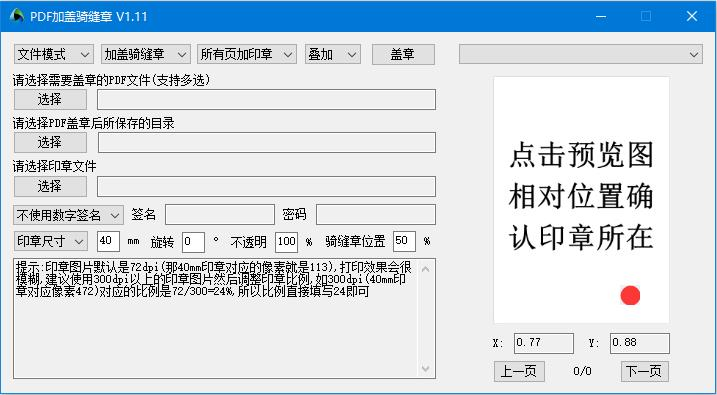
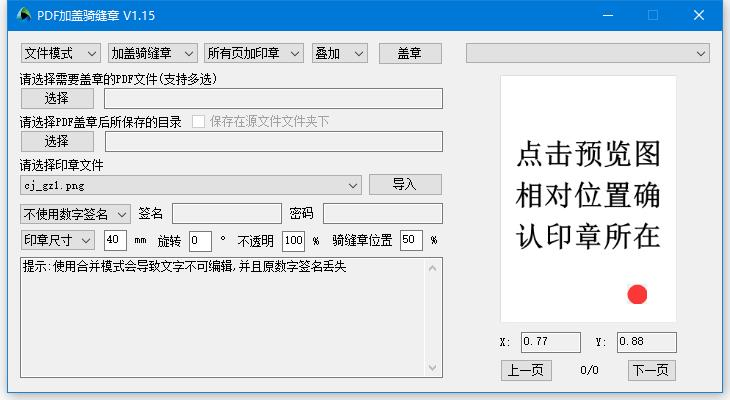
修复仅数字签名时的报错

diff --git a/PDFQFZ/Form1.Designer.cs b/PDFQFZ/Form1.Designer.cs
@@ -172,8 +172,7 @@
             this.log.ScrollBars = System.Windows.Forms.ScrollBars.Both;
             this.log.Size = new System.Drawing.Size(423, 121);
             this.log.TabIndex = 10;
-            this.log.Text = "提示:印章图片默认是72dpi(那40mm印章对应的像素就是113),打印效果会很模糊,建议使用300dpi以上的印章图片然后调整印章比例,如300dpi(40m" +
-    "m印章对应像素472)对应的比例是72/300=24%,所以比例直接填写24即可";
+            this.log.Text = "提示:使用合并模式会导致文字不可编辑,并且原数字签名丢失";
             // 
             // comboYz
             // 
@@ -559,7 +558,7 @@
             this.Icon = ((System.Drawing.Icon)(resources.GetObject("$this.Icon")));
             this.MaximizeBox = false;
             this.Name = "Form1";
-            this.Text = "PDF加盖骑缝章 V1.14";
+            this.Text = "PDF加盖骑缝章 V1.15";
             this.Load += new System.EventHandler(this.Form1_Load);
             ((System.ComponentModel.ISupportInitialize)(this.pictureBox2)).EndInit();
             ((System.ComponentModel.ISupportInitialize)(this.pictureBox1)).EndInit();

diff --git a/PDFQFZ/Form1.cs b/PDFQFZ/Form1.cs
@@ -484,9 +484,9 @@ namespace PDFQFZ
                         //img.Transparency = new int[] { 0x00, 0x00, 0x00, 0x00, 0x00, 0x00 };//这里透明背景的图片会变黑色,所以设置黑色为透明
                         //img.RotationDegrees = rotation;
                         img.ScalePercent(sfbl);//设置图片比例
+                        imgW = img.Width * sfbl / 100f;
+                        imgH = img.Height * sfbl / 100f;
                     }
-                    imgW = img.Width * sfbl / 100f;
-                    imgH = img.Height * sfbl / 100f;
 
                     if (yzType == 1)
                     {

diff --git a/README.md b/README.md
@@ -3,7 +3,7 @@ PDF加盖骑缝章的小工具
 
 选择需要盖章的PDF文件或文件夹。
 选择保存文件夹。
-选择完整的印章图片,工具会根据PDF页数做随机分割。
+导入完整的印章图片,工具会根据PDF页数做随机分割。
 设定印章大小,骑缝章位置,印章位置等
 点盖章，骚等后在保存文件夹中即可看到盖好骑缝章的PDF文件。
 
